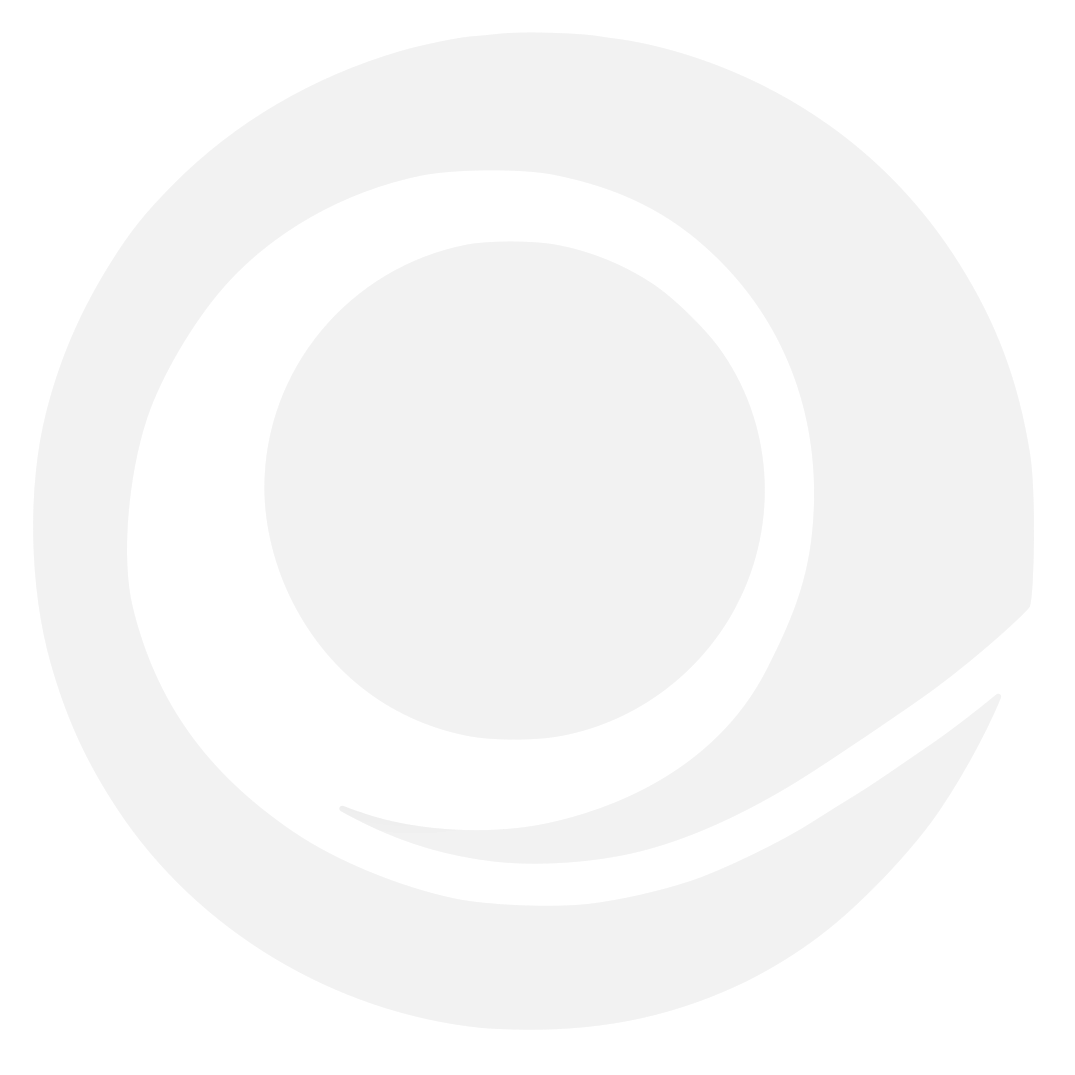
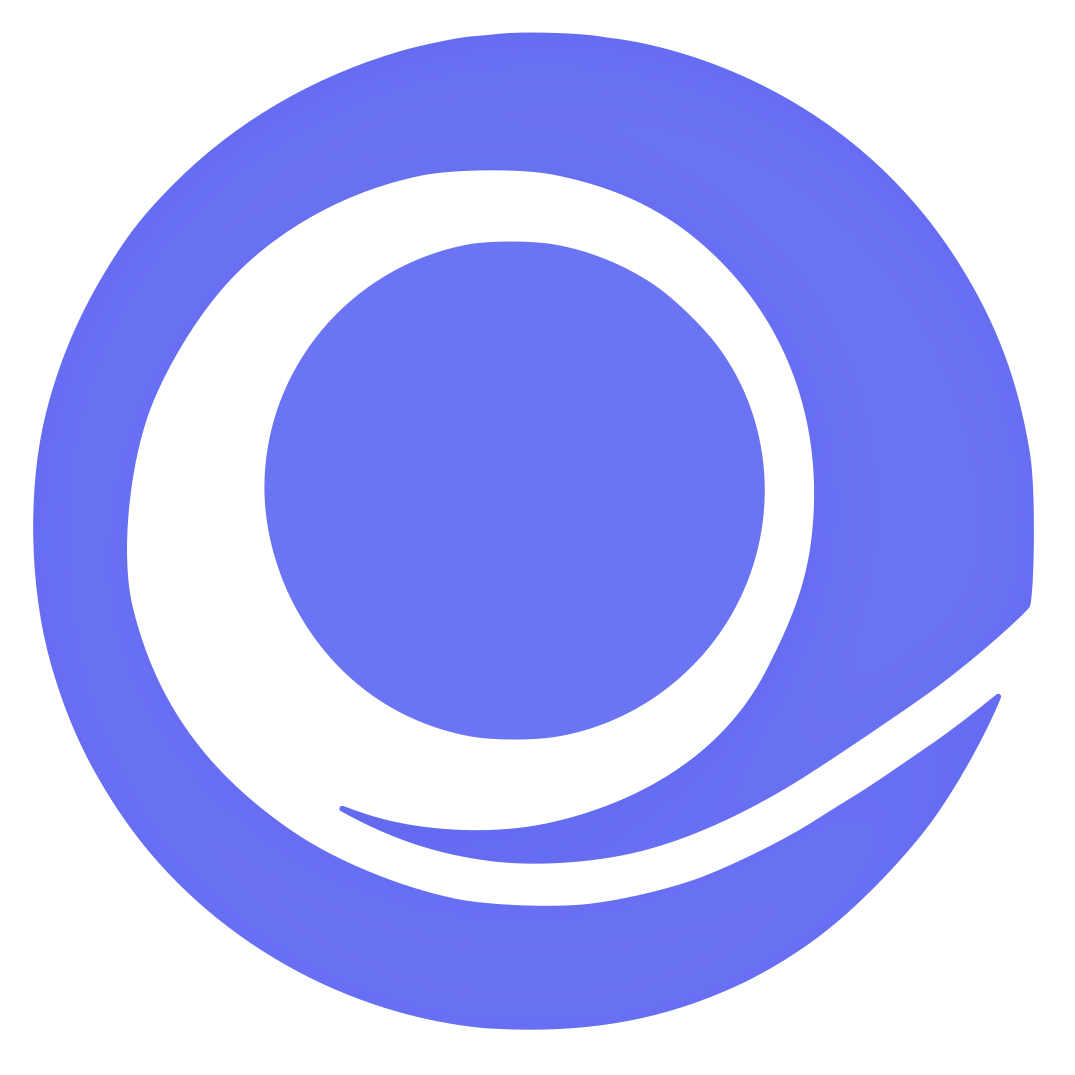
More style changes

diff --git a/client/src/pages/Auth.page.tsx b/client/src/pages/Auth.page.tsx
@@ -1,6 +1,6 @@
 import { Button } from "../components/Button.component";
 import { Input } from "../components/Input.component";
-import { IoEye } from "react-icons/io5";
+import { IoEye, IoEyeOff } from "react-icons/io5";
 import { useForm } from "react-hook-form";
 import {
   SignupFormTypes,
@@ -18,7 +18,7 @@ import { useNavigate } from "react-router-dom";
 import { CgClose } from "react-icons/cg";
 import { LoadingSpinner } from "../components/Loading.component";
 import logo from "../assets/loopza.png";
-import logoDark from "../assets/loopza_dark.png";
+import logo_dark from "../assets/loopza_dark.png";
 import * as yup from "yup";
 
 const LoginForm = () => {
@@ -53,7 +53,7 @@ const LoginForm = () => {
 
   return (
     <form id="auth" method="POST" onSubmit={handleSubmit(onSubmit)}>
-      <img src={currentTheme === "dark" ? logo : logoDark} alt="logo" />
+      <img src={currentTheme === "dark" ? logo : logo_dark} alt="logo" />
       <Navigation link="/" type="button">
         <CgClose />
       </Navigation>
@@ -82,7 +82,7 @@ const LoginForm = () => {
             type="button"
             onClick={() => setShowPassword(!showPassword)}
           >
-            <IoEye />
+            {showPassword ? <IoEyeOff /> : <IoEye />}
           </Button>
           {errors.password && (
             <div className="error">{errors.password.message}</div>
@@ -204,7 +204,7 @@ const SignupForm = () => {
         }
       })}
     >
-      <img src={currentTheme === "dark" ? logo : logoDark} alt="logo" />
+      <img src={currentTheme === "dark" ? logo : logo_dark} alt="logo" />
       <Navigation link="/" type="button">
         <CgClose />
       </Navigation>
@@ -255,7 +255,7 @@ const SignupForm = () => {
             type="button"
             onClick={() => showPassword("password")}
           >
-            <IoEye />
+            {showPasswords.password ? <IoEyeOff /> : <IoEye />}
           </Button>
           {errors.password && (
             <div className="error">{errors.password.message}</div>
@@ -273,7 +273,7 @@ const SignupForm = () => {
             type="button"
             onClick={() => showPassword("confirmPassword")}
           >
-            <IoEye />
+            {showPasswords.confirmPassword ? <IoEyeOff /> : <IoEye />}
           </Button>
           {errors.confirmPassword && (
             <div className="error">{errors.confirmPassword.message}</div>

diff --git a/client/src/components/Nav.component.tsx b/client/src/components/Nav.component.tsx
@@ -13,6 +13,7 @@ import { Theme } from "./Theme.component";
 import { useLocation, useNavigate } from "react-router-dom";
 import { showPopup } from "../features/popupSlice";
 import logo from "../assets/loopza.png";
+import logo_dark from "../assets/loopza_dark.png";
 
 export const Nav = ({ isReturn = false }: { isReturn?: boolean }) => {
   const location = useLocation();
@@ -21,6 +22,7 @@ export const Nav = ({ isReturn = false }: { isReturn?: boolean }) => {
   const [currentPage, setCurrentPage] = useState<string | undefined>(undefined);
   const [isMenu, setIsMenu] = useState(false);
   const { user, status } = useSelector((state: RootState) => state.auth);
+  const { currentTheme } = useSelector((state: RootState) => state.theme);
 
   useEffect(() => {
     const currentPath = location.pathname.split("/").pop();
@@ -55,7 +57,7 @@ export const Nav = ({ isReturn = false }: { isReturn?: boolean }) => {
             <IoChevronBack />
           </Navigation>
         ) : (
-          <img src={logo} alt="" />
+          <img src={currentTheme === "dark" ? logo_dark : logo} alt="" />
         )}
         <h5>
           {currentPage &&

diff --git a/client/src/features/themeSlice.ts b/client/src/features/themeSlice.ts
@@ -27,14 +27,14 @@ export const getTheme = () => (dispatch: AppDispatch) => {
     document.documentElement.setAttribute("data-theme", "light");
     document
       .querySelector('meta[name="theme-color"]')
-      ?.setAttribute("content", "rgb(89, 98, 255)");
+      ?.setAttribute("content", "rgb(245, 245, 250)");
     dispatch(setTheme({ currentTheme: "light" }));
   } else {
     document
       .querySelector('meta[name="theme-color"]')
       ?.setAttribute(
         "content",
-        `${localTheme === "dark" ? "rgb(82, 90, 236)" : "rgb(89, 98, 255)"}`
+        `${localTheme === "dark" ? "rgb(30, 30, 35)" : "rgb(245, 245, 250)"}`
       );
 
     document.documentElement.setAttribute("data-theme", localTheme);
@@ -50,7 +50,7 @@ export const changeTheme =
       .querySelector('meta[name="theme-color"]')
       ?.setAttribute(
         "content",
-        `${newTheme === "dark" ? "rgb(82, 90, 236)" : "rgb(89, 98, 255)"}`
+        `${newTheme === "dark" ? "rgb(30, 30, 35)" : "rgb(245, 245, 250)"}`
       );
     document.documentElement.setAttribute("data-theme", newTheme);
 

diff --git a/client/src/styles/components/Nav.component.scss b/client/src/styles/components/Nav.component.scss
@@ -13,10 +13,6 @@ nav {
   height: 0;
 }
 
-nav * {
-  color: white;
-}
-
 nav > header {
   position: fixed;
   top: 0;
@@ -31,7 +27,7 @@ nav > header {
   border-radius: $round;
   border-top-left-radius: 0;
   border-top-right-radius: 0;
-  background: var(--primary);
+  background: var(--background);
   transition: transform $animationCubic;
   animation: $animationCubic comeFromTop;
   z-index: 1;
@@ -68,7 +64,7 @@ nav > main {
   border-radius: $round;
   transition: transform $animationCubic;
   transform-origin: top;
-  background: var(--primary);
+  background: var(--background);
 }
 
 nav h5 {
@@ -107,7 +103,7 @@ nav div.hover {
   height: $height;
   border-radius: $round;
   transition: transform $animationCubic;
-  background: $dark;
+  background: var(--container);
 }
 
 nav div.hover.home {

diff --git a/client/src/styles/components/Navigation.component.scss b/client/src/styles/components/Navigation.component.scss
@@ -14,13 +14,21 @@ a {
 
 a.fixed {
   position: fixed;
-  width: fit-content;
+  display: flex;
   bottom: $padding;
   right: $padding;
+  width: calc($width + ($paddingSmall * 2));
+  min-height: calc($height + ($paddingSmall * 2));
   animation: $animationCubic emerge;
   background: var(--primary);
   color: white !important;
   z-index: 2;
+}
+
+a.fixed > svg {
+  width: calc($width + ($paddingSmall * 2));
+  min-height: calc($height + ($paddingSmall * 2));
+  padding: $padding;
 }
 
 @media screen and (min-width: $widthContainer) {
@@ -45,7 +53,7 @@ a > p {
 }
 
 a > div {
-  padding-top: 0.35rem;
+  padding-top: $fontAdjust;
 }
 
 @media screen and (min-width: $widthContainerLarge) {

diff --git a/client/src/styles/base/themes.scss b/client/src/styles/base/themes.scss
@@ -2,17 +2,17 @@ $dark: rgb(35, 35, 42);
 
 [data-theme="dark"] {
   --color: white;
-  --primary: rgb(82, 90, 236);
+  --primary: #525aec;
   --colorDanger: rgb(255, 57, 57);
   --outline: 0.1rem solid rgba(255, 255, 255, 0.1);
-  --background: rgba(30, 30, 35);
+  --background: rgb(30, 30, 35);
   --shadow: 0.1rem 0.2rem 0.75rem rgba(0, 0, 0, 0.2);
   --container: rgb(35, 35, 42);
 }
 
 [data-theme="light"] {
   --color: black;
-  --primary: rgb(89, 98, 255);
+  --primary: #5962ff;
   --colorDanger: rgb(220, 53, 53);
   --outline: 0.1rem solid rgba(0, 0, 0, 0.5);
   --background: rgb(245, 245, 250);

diff --git a/client/src/styles/components/Button.component.style.scss b/client/src/styles/components/Button.component.style.scss
@@ -12,6 +12,7 @@ button {
   gap: $gapSmall;
   cursor: pointer;
   border-radius: $round;
+  padding-top: $fontAdjust;
   color: white;
   white-space: nowrap;
   background: var(--primary);
@@ -38,10 +39,11 @@ button.transparent {
 
 button > p {
   display: none;
+  padding-top: calc($fontAdjust / 2);
 }
 
 button > div {
-  padding-top: 0.35rem;
+  padding-top: $fontAdjust;
 }
 
 button.small {

diff --git a/client/src/utilities/Popup.utilities.tsx b/client/src/utilities/Popup.utilities.tsx
@@ -17,7 +17,7 @@ export const Popup = () => {
 
     const popupInterval = setInterval(() => {
       if (messages.length > 0) {
-        dispatch(hidePopup({ index: messages.length - 1 }));
+        // dispatch(hidePopup({ index: messages.length - 1 }));
       }
     }, interval);
 

diff --git a/client/src/styles/pages/Main.page.scss b/client/src/styles/pages/Main.page.scss
@@ -4,7 +4,7 @@
   display: flex;
   flex-direction: column;
   gap: $gap;
-  margin-top: calc($height + ($padding * 2));
+  margin-top: calc($height + ($padding));
   width: 100%;
   max-width: $widthContainerMain;
   min-height: 100%;

diff --git a/client/src/styles/components/Input.component.style.scss b/client/src/styles/components/Input.component.style.scss
@@ -31,7 +31,7 @@ label > p {
 label > button {
   position: absolute;
   width: fit-content;
-  top: calc($paddingLarge / 1.5);
+  top: calc($paddingLarge / 1.6);
   right: 0;
   background: transparent;
   box-shadow: none;

diff --git a/client/src/styles/base/variables.scss b/client/src/styles/base/variables.scss
@@ -1,9 +1,11 @@
-$round: 1.5rem;
+$round: 2rem;
 $roundExtra: 5rem;
 
 $fontSmall: 0.75rem;
 $font: 0.99rem;
 $fontLarge: 1.5rem;
+
+$fontAdjust: 0.3rem;
 
 $paddingSmall: 0.5rem;
 $padding: 1rem;

diff --git a/client/src/styles/components/Theme.component.style.scss b/client/src/styles/components/Theme.component.style.scss
@@ -41,10 +41,6 @@
   background: var(--background);
 }
 
-nav #theme > div {
-  background: $dark;
-}
-
 .side #theme > div > button.dark {
   transform: translateY(-52%);
 }
